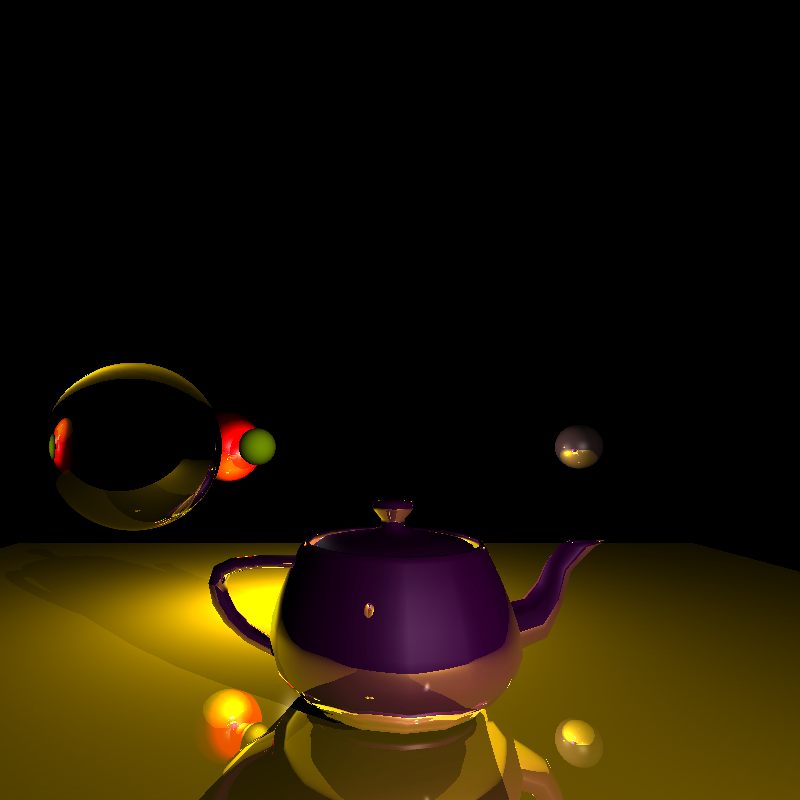
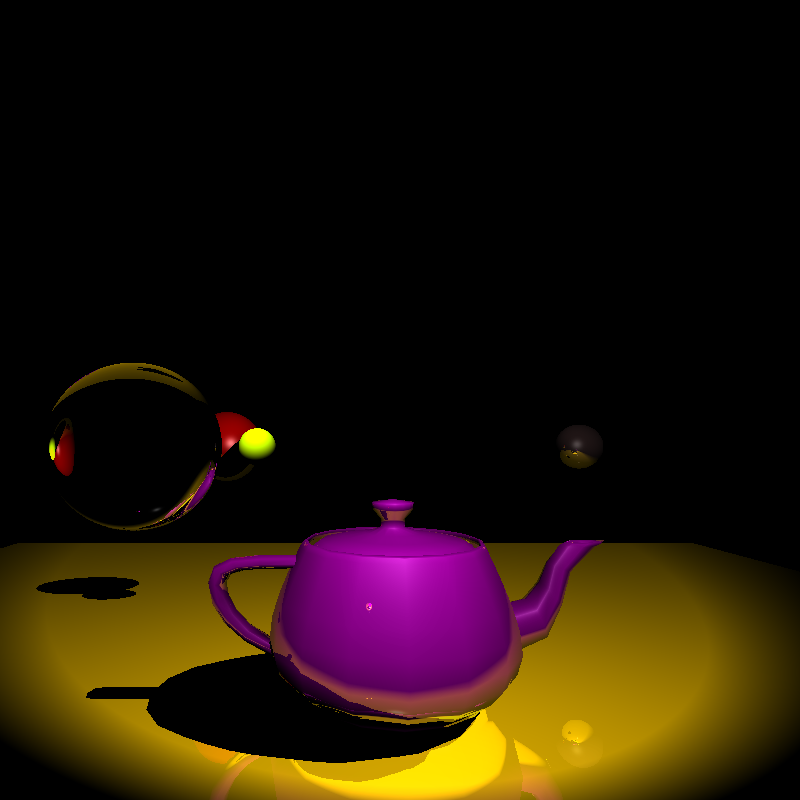
Spotlight implemented with diffuse circumference

diff --git a/src/edu/up/isgc/cg/raytracer/Raytracer.java b/src/edu/up/isgc/cg/raytracer/Raytracer.java
@@ -2,6 +2,7 @@ package edu.up.isgc.cg.raytracer;
 
 import edu.up.isgc.cg.raytracer.lights.Light;
 import edu.up.isgc.cg.raytracer.lights.PointLight;
+import edu.up.isgc.cg.raytracer.lights.SpotLight;
 import edu.up.isgc.cg.raytracer.objects.*;
 import edu.up.isgc.cg.raytracer.tools.OBJReader;
 
@@ -22,9 +23,9 @@ public class Raytracer {
 
         Scene scene02 = new Scene();
         scene02.setCamera(new Camera(new Vector3D(1.5, 1.0, -3), 60, 60, 800, 800, 0.6, 50.0));
-        scene02.addLight(new PointLight(new Vector3D(4.0, 1.0, -4.0), Color.WHITE, 5));
-        scene02.addLight(new PointLight(new Vector3D(1.0, 0.5, 4.0), Color.WHITE, 5));
-
+        //scene02.addLight(new PointLight(new Vector3D(4.0, 1.0, -4.0), Color.WHITE, 5));
+        //scene02.addLight(new PointLight(new Vector3D(1.0, 0.5, 4.0), Color.WHITE, 5));
+        scene02.addLight(new SpotLight(new Vector3D(2, 2.0, 0), Color.white, 7, 40, Vector3D.normalize(new Vector3D(0.0, -0.3, 0.3))));
         /*scene02.addLight(new DirectionalLight(new Vector3D(0.0, 0.0, 1.0), Color.WHITE, 0.8));*/
         scene02.addObject(new Sphere(new Vector3D(0.0, 1.0, 5.0), 0.5, Color.RED, 8, 0.5, false));
         scene02.addObject(new Sphere(new Vector3D(0.5, 1.0, 4.5), 0.25, new Color(200, 255, 0), 7.7, 0.0, false));
@@ -169,7 +170,7 @@ public class Raytracer {
 
         Intersection reflectionIntersection = raycast(reflectionRay, objects, intersection.getObject(), clippingPlanes);
 
-        if (reflectionIntersection != null && reflectionDepth <= 2 ) {
+        if (reflectionIntersection != null && reflectionDepth <= 2) {
             reflectionDepth += 1;
             //Color reflectionColor = getSpecularColor(lights, reflectionRay, objects, clippingPlanes, reflectionDepth, reflectionIntersection.getObject());
             Color reflectionColor = getSpecularColor(lights, reflectionRay, objects, clippingPlanes, reflectionDepth, intersection.getObject());
@@ -263,10 +264,10 @@ public class Raytracer {
                 double intensity = light.getIntensity() * nDotL;
 
                 //Distancia interseccion a la luz
-                double distanceIntersectionLight = Vector3D.calculateDistance(closestIntersection.getPosition(),light.getPosition());
-                if (distanceIntersectionLight<1) distanceIntersectionLight*=-1;
+                double distanceIntersectionLight = Vector3D.calculateDistance(closestIntersection.getPosition(), light.getPosition());
+                if (distanceIntersectionLight < 1) distanceIntersectionLight *= -1;
 
-                if (light.getClass().equals(PointLight.class)) {
+                if (light.getClass().equals(PointLight.class) || light.getClass().equals(SpotLight.class)) {
                     intensity /= distanceIntersectionLight;
                 }
 

diff --git a/src/edu/up/isgc/cg/raytracer/lights/SpotLight.java b/src/edu/up/isgc/cg/raytracer/lights/SpotLight.java
@@ -1,0 +1,54 @@
+package edu.up.isgc.cg.raytracer.lights;
+
+import edu.up.isgc.cg.raytracer.Intersection;
+import edu.up.isgc.cg.raytracer.Vector3D;
+
+import java.awt.*;
+
+public class SpotLight extends Light {
+    private double cutoffAngle;
+    private Vector3D direction;
+
+    public double getCutoffAngle() {
+        return cutoffAngle;
+    }
+
+    public void setCutoffAngle(double cutoffAngle) {
+        this.cutoffAngle = cutoffAngle;
+    }
+
+    public Vector3D getDirection() {
+        return direction;
+    }
+
+    public void setDirection(Vector3D direction) {
+        this.direction = direction;
+    }
+
+    public SpotLight(Vector3D position, Color color, double intensity, double cutoffAngle, Vector3D direction) {
+        super(position, color, intensity);
+        setCutoffAngle(cutoffAngle);
+        setDirection(direction);
+    }
+
+    @Override
+    public double getNDotL(Intersection intersection) {
+        Vector3D lightDir = Vector3D.substract(getPosition(), intersection.getPosition());
+        Vector3D spotDir = getDirection();
+        double phi = Math.cos(Math.toRadians(getCutoffAngle()));
+        double theta = Vector3D.dotProduct(Vector3D.normalize(Vector3D.scalarMultiplication(lightDir, -1)), Vector3D.normalize(spotDir));
+
+        //Soften Spotlight circumference
+        double outerCutoff = Math.cos(Math.toRadians(getCutoffAngle()*1.25));
+        double epsilon = phi - outerCutoff;
+        double relativeIntensity = Math.clamp( (theta-outerCutoff) / epsilon, 0.0, 1.0);
+
+
+        if (theta > outerCutoff) {
+            return Math.max(Vector3D.dotProduct(intersection.getNormal(), Vector3D.scalarMultiplication(getDirection(), -1.0)) * relativeIntensity, 0.0);
+        } else {
+            return 0;
+        }
+
+    }
+}
